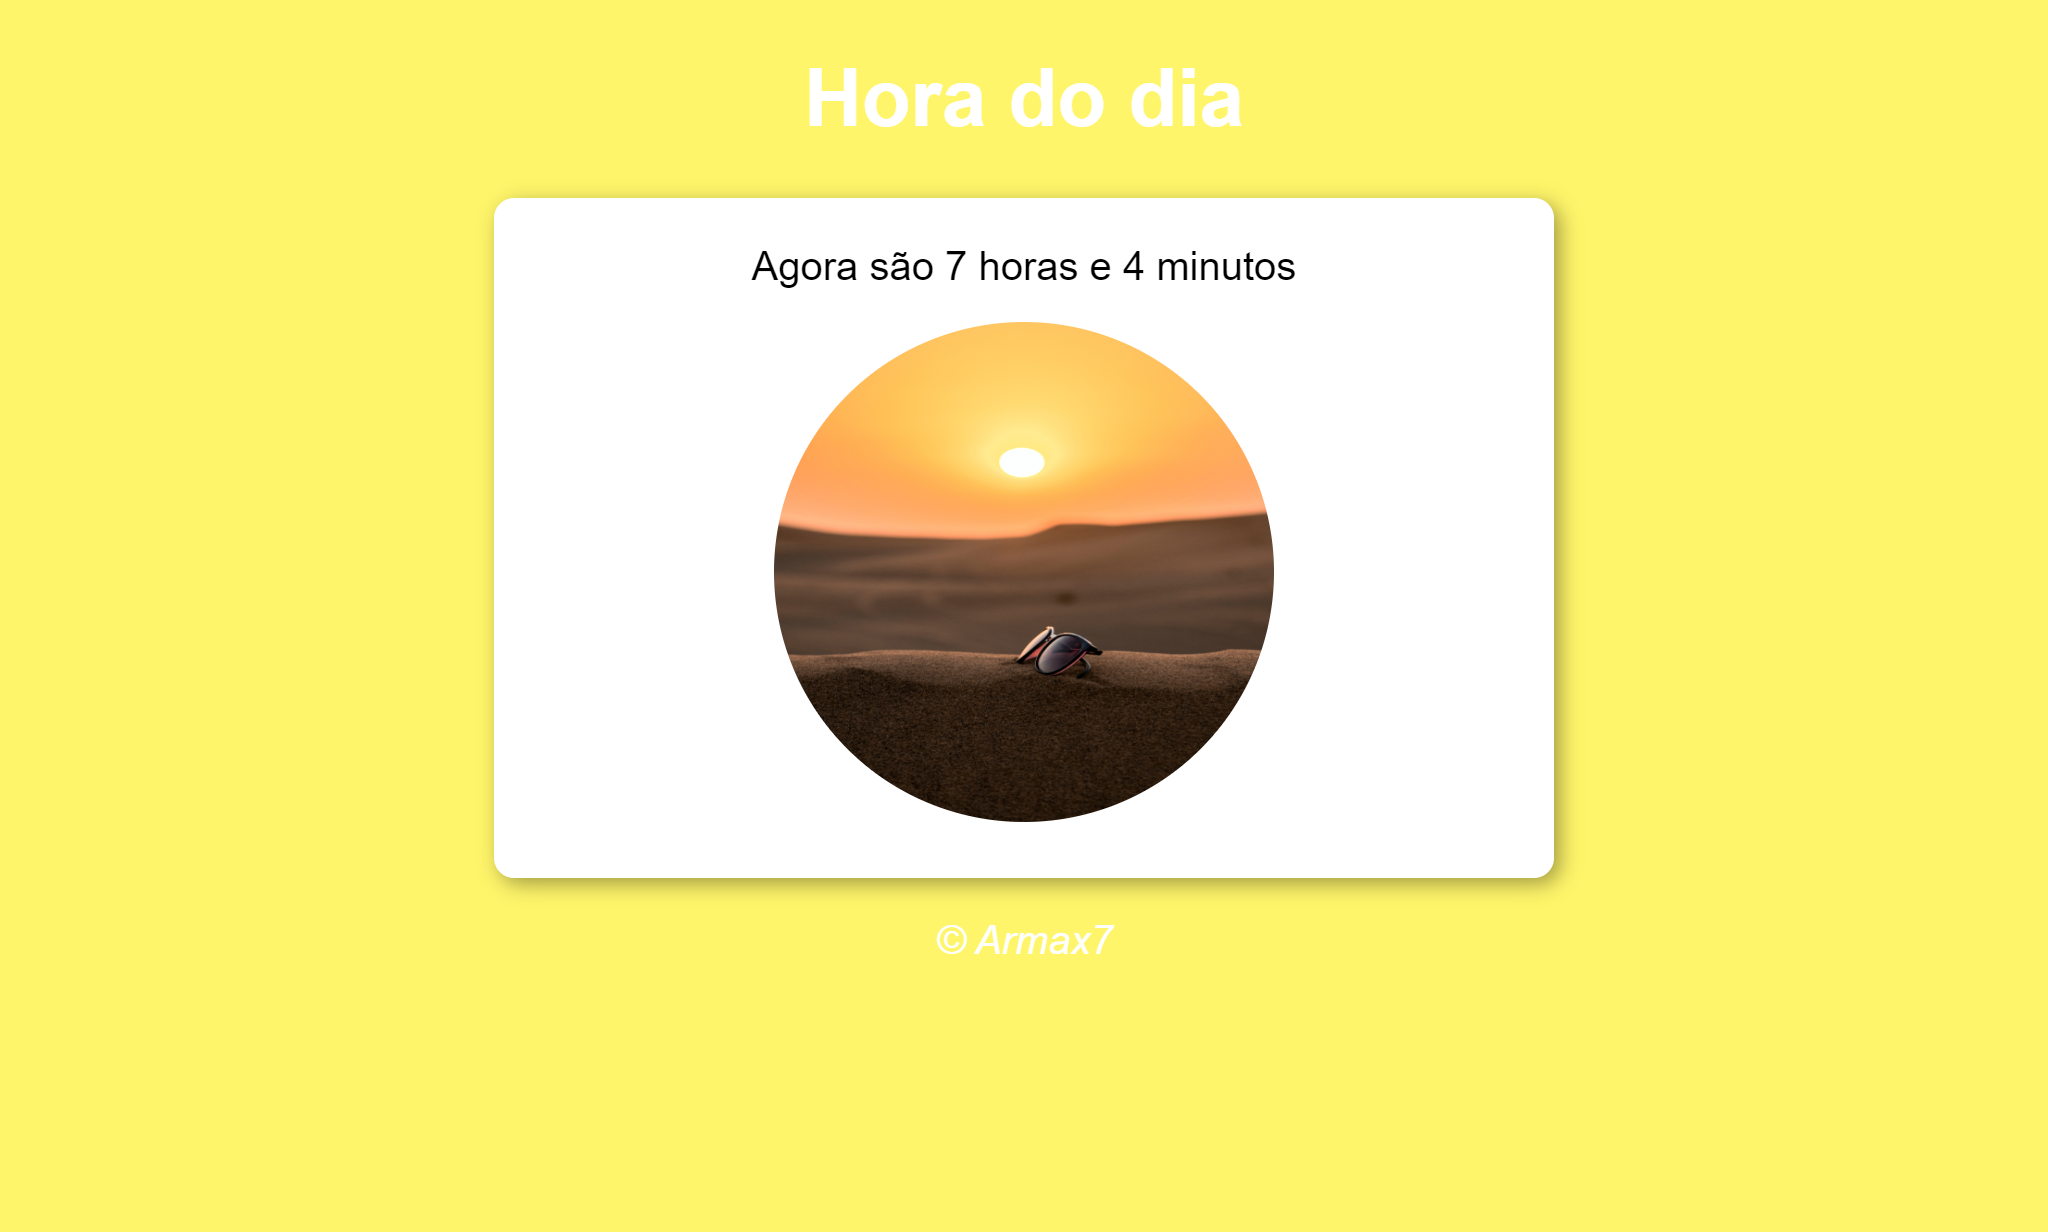
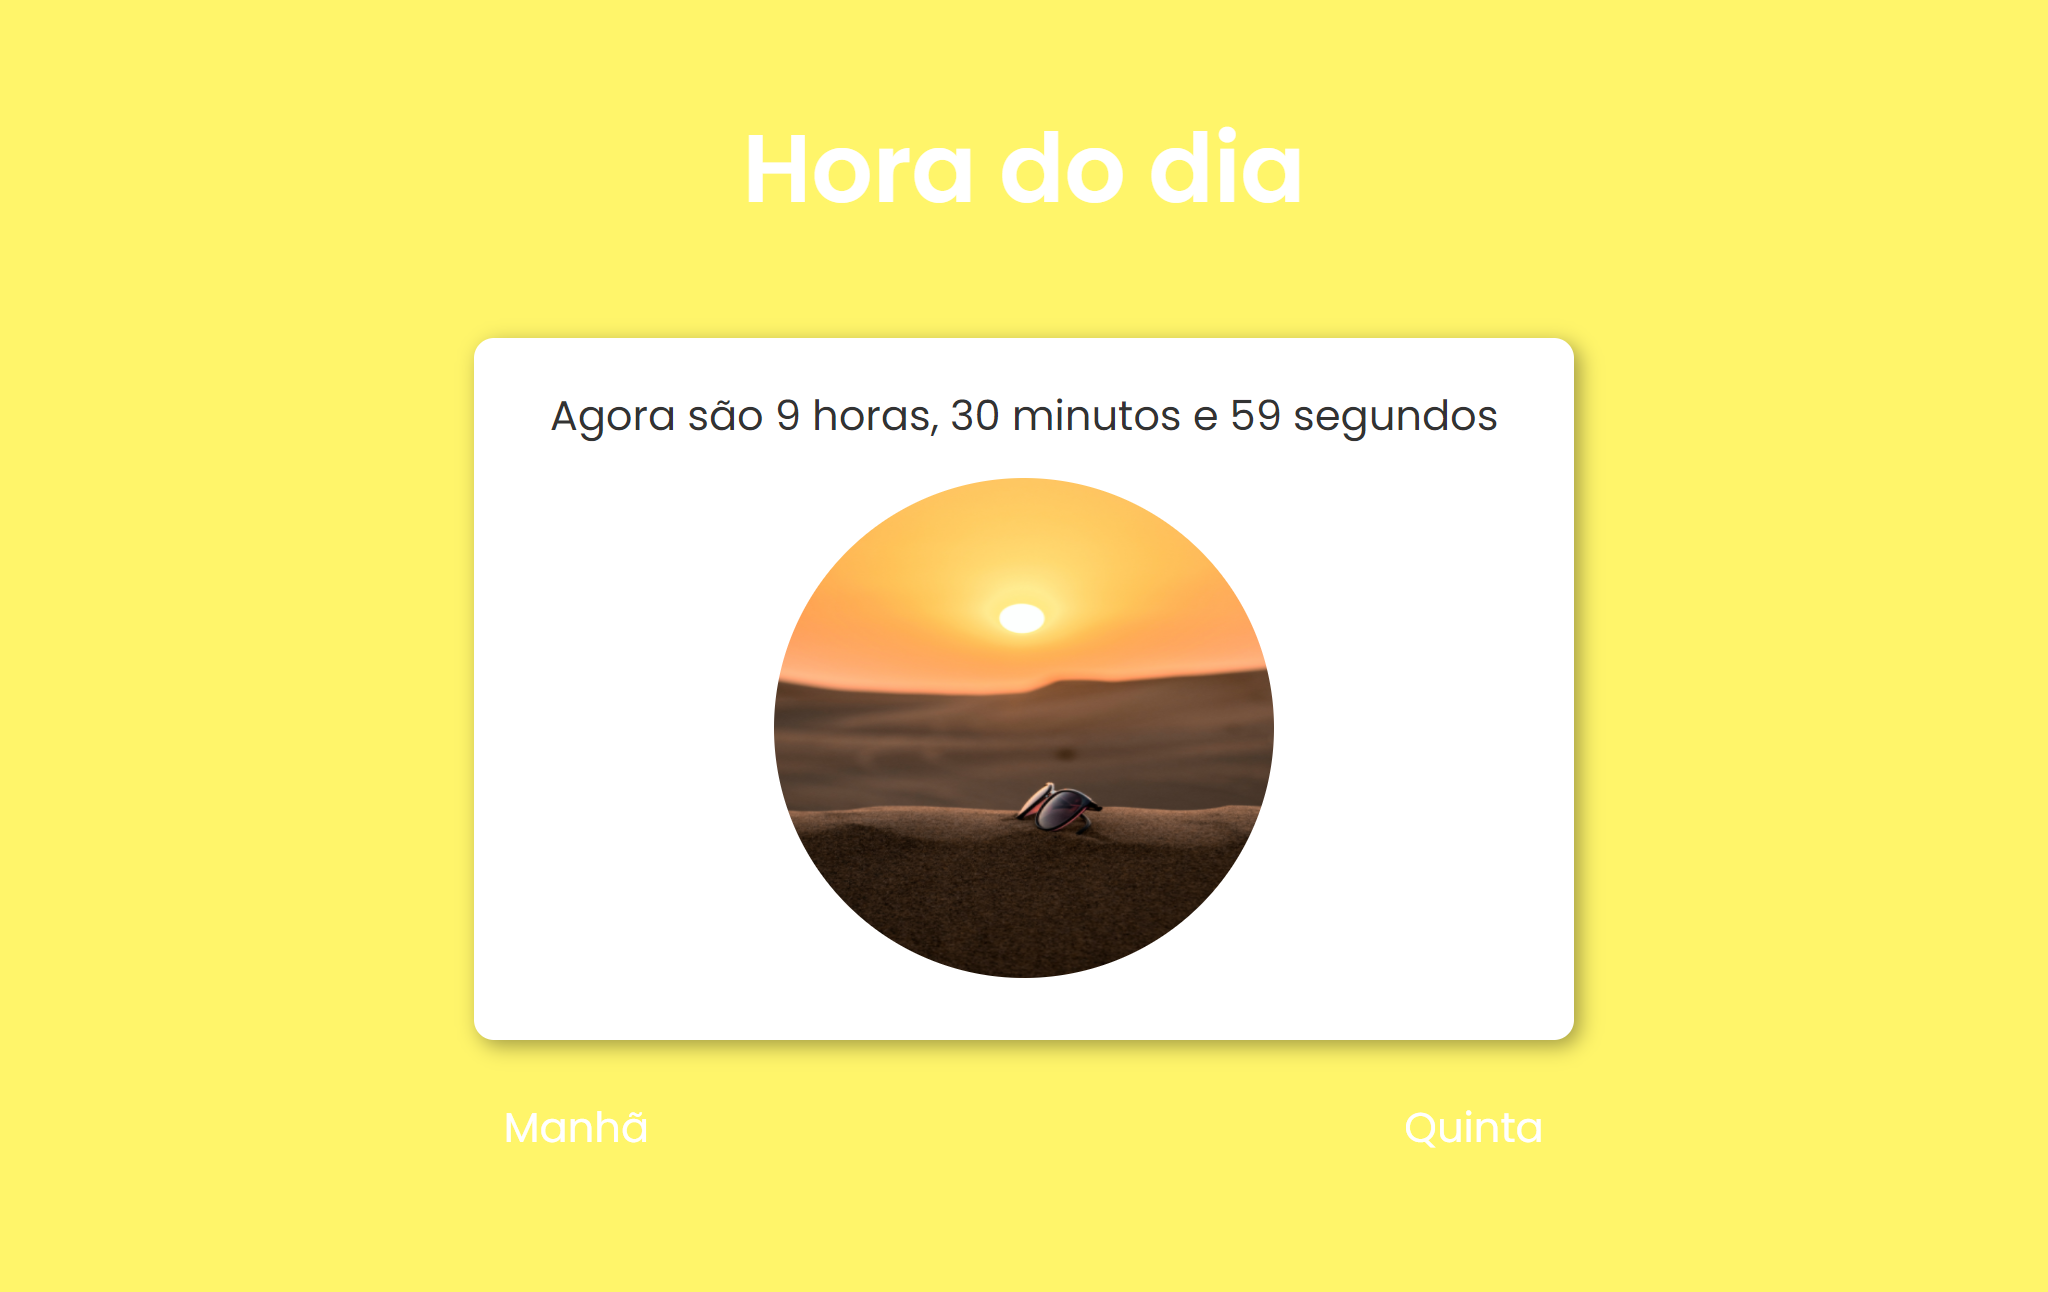
updating images

Changed region(s): [[0.2188, 0.0617, 0.7812, 0.8328], [0.6875, 0.8636, 0.75, 0.8945], [0.25, 0.8636, 0.3125, 0.8945]]

diff --git a/public/scripts/main.js b/public/scripts/main.js
@@ -41,7 +41,9 @@ function dataHMS() {
   var h = data.getHours()
   var m = data.getMinutes()
   var s = data.getSeconds()
-  //var hora = 13                                       //para teste
+  //var h = 21                                          //para testes
+  //var m = 30
+  //var s = 59
 
   var msg  = window.document.querySelector('div#msgH')
   msg.innerHTML = `Agora são ${h} horas, ${m} minutos e ${s} segundos`
